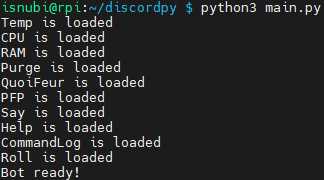
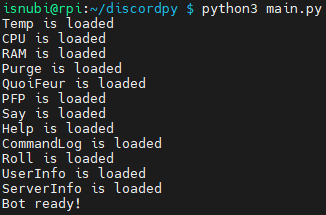
Update README.md file. Add music player with multiple commands. Add these commands on the help menu.

Changed region(s): [[0.0, 0.0, 0.9877, 1.0]]

diff --git a/cogs/PlaySound.py b/cogs/PlaySound.py
@@ -1,0 +1,150 @@
+import asyncio
+import discord
+import youtube_dl
+from discord.ext import commands
+
+
+# Suppress noise about console usage from errors
+youtube_dl.utils.bug_reports_message = lambda: ''
+
+
+ytdl_format_options = {
+    'format': 'bestaudio/best',
+    'outtmpl': '%(extractor)s-%(id)s-%(title)s.%(ext)s',
+    'restrictfilenames': True,
+    'noplaylist': True,
+    'nocheckcertificate': True,
+    'ignoreerrors': False,
+    'logtostderr': False,
+    'quiet': True,
+    'no_warnings': True,
+    'default_search': 'auto',
+    'source_address': '0.0.0.0',
+}
+
+ffmpeg_options = {'options': '-vn', }
+
+ytdl = youtube_dl.YoutubeDL(ytdl_format_options)
+
+
+class YTDLSource(discord.PCMVolumeTransformer):
+    def __init__(self, source, *, data, volume=0.5):
+        super().__init__(source, volume)
+
+        self.data = data
+
+        self.title = data.get('title')
+        self.url = data.get('url')
+
+    @classmethod
+    async def from_url(cls, url, *, loop=None, stream=False):
+        loop = loop or asyncio.get_event_loop()
+        data = await loop.run_in_executor(None, lambda: ytdl.extract_info(url, download=not stream))
+
+        if 'entries' in data:
+            data = data['entries'][0]
+
+        filename = data['url'] if stream else ytdl.prepare_filename(data)
+        return cls(discord.FFmpegPCMAudio(filename, **ffmpeg_options), data=data)
+
+
+class Music(commands.Cog):
+    def __init__(self, bot):
+        self.bot = bot
+
+    @commands.command(name='join')
+    async def join(self, ctx):
+        try:
+            channel = ctx.message.author.voice.channel
+            if channel is None:
+                embed = discord.Embed(title="FeurMusic", description='You are not in a voice channel', color=discord.Colour.blue())
+                embed.set_author(name=ctx.author.name, icon_url=ctx.author.avatar_url)
+            else:
+                embed = discord.Embed(title="FeurMusic", description='Connecting to {0} voice channel'.format(ctx.message.author.voice.channel), color=discord.Colour.blue())
+                embed.set_author(name=ctx.author.name, icon_url=ctx.author.avatar_url)
+                await channel.connect()
+        except discord.ClientException:
+            embed = discord.Embed(title="FeurMusic", description='I\'m already used in another channel', color=discord.Colour.blue())
+            embed.set_author(name=ctx.author.name, icon_url=ctx.author.avatar_url)
+
+        await ctx.message.delete()
+        await ctx.send(embed=embed)
+
+    @commands.command(name='play')
+    async def play(self, ctx, *, url):
+        try:
+            async with ctx.typing():
+                player = await YTDLSource.from_url(url, loop=self.bot.loop, stream=True)
+                ctx.voice_client.play(player, after=lambda e: print(f'Player error: {e}') if e else None)
+
+            embed = discord.Embed(title="FeurMusic", url=url, description="Now playing: {0}".format(player.title), color=discord.Colour.blue())
+            embed.set_author(name=ctx.author.name, icon_url=ctx.author.avatar_url)
+            embed.set_thumbnail(url=player.data['thumbnail'])
+
+            await ctx.message.delete()
+            await ctx.send(embed=embed)
+        except youtube_dl.DownloadError as e:
+            pass
+
+    @commands.command(name='volume')
+    async def volume(self, ctx, volume: int):
+        if ctx.voice_client is None:
+            return await ctx.send("Not connected to a voice channel.")
+
+        ctx.voice_client.source.volume = volume / 100
+        embed = discord.Embed(title="FeurMusic", description='Volume set to {0}%'.format(volume), color=discord.Colour.blue())
+        embed.set_author(name=ctx.author.name, icon_url=ctx.author.avatar_url)
+
+        await ctx.message.delete()
+        await ctx.send(embed=embed)
+
+    @commands.command(name='pause')
+    async def pause(self, ctx):
+        ctx.voice_client.pause()
+        embed = discord.Embed(title="FeurMusic", description='Music paused', color=discord.Colour.blue())
+        embed.set_author(name=ctx.author.name, icon_url=ctx.author.avatar_url)
+
+        await ctx.message.delete()
+        await ctx.send(embed=embed)
+
+    @commands.command(name='resume')
+    async def resume(self, ctx):
+        ctx.voice_client.resume()
+        embed = discord.Embed(title="FeurMusic", description='Music resumed', color=discord.Colour.blue())
+        embed.set_author(name=ctx.author.name, icon_url=ctx.author.avatar_url)
+
+        await ctx.message.delete()
+        await ctx.send(embed=embed)
+
+    @commands.command(name='stop')
+    async def stop(self, ctx):
+        ctx.voice_client.stop()
+        embed = discord.Embed(title="FeurMusic", description='Music stopped', color=discord.Colour.blue())
+        embed.set_author(name=ctx.author.name, icon_url=ctx.author.avatar_url)
+
+        await ctx.message.delete()
+        await ctx.send(embed=embed)
+
+    @commands.command(name='leave')
+    async def leave(self, ctx):
+        await ctx.voice_client.disconnect()
+        embed = discord.Embed(title="FeurMusic", description='Disconnected from voice channel', color=discord.Colour.blue())
+        embed.set_author(name=ctx.author.name, icon_url=ctx.author.avatar_url)
+
+        await ctx.message.delete()
+        await ctx.send(embed=embed)
+
+    @play.before_invoke
+    async def ensure_voice(self, ctx):
+        if ctx.voice_client is None:
+            if ctx.author.voice:
+                await ctx.author.voice.channel.connect()
+            else:
+                await ctx.send("You are not connected to a voice channel.")
+                raise commands.CommandError("Author not connected to a voice channel.")
+        elif ctx.voice_client.is_playing():
+            ctx.voice_client.stop()
+
+
+def setup(bot):
+    bot.add_cog(Music(bot))

diff --git a/cogs/Help.py b/cogs/Help.py
@@ -23,8 +23,17 @@ class Help(commands.Cog):
         embed.add_field(name="**!say** *<something>*", value="Let the bot say something you tell it", inline=True)
         embed.add_field(name="**!pfp** *<@user>*", value="Return the profile picture of mentioned user", inline=True)
         embed.add_field(name="**!roll** *<number>**d**<number>*", value="Roll number of dices with the number of sides you tell it\nYou can\'t roll more than 100 dices\nDices can't have more than 100 sides", inline=False)
-        embed.add_field(name="**!userinfo** *<@user>* - [ui, user]", value="Get user informations", inline=False)
-        embed.add_field(name="**!serverinfo** - [si, server]", value="Get server informations", inline=False)
+        embed.add_field(name="**!userinfo** *<@user>* - [ui, user]", value="Get user information", inline=False)
+        embed.add_field(name="**!serverinfo** - [si, server]", value="Get server information", inline=False)
+
+        # Music command
+        embed.add_field(name="__Music__", value="List of all the music commands available", inline=False)
+        embed.add_field(name="**!join**", value="Join the channel you're in", inline=True)
+        embed.add_field(name="**!play** *<url>*", value="Play a song from youtube", inline=True)
+        embed.add_field(name="**!pause**", value="Pause the current song", inline=True)
+        embed.add_field(name="**!resume**", value="Resume the current song", inline=True)
+        embed.add_field(name="**!stop**", value="Stop the music", inline=True)
+        embed.add_field(name="**!volume** *<number>*", value="Change the volume of the music", inline=True)
 
         # Admin command
         for role in ctx.message.author.roles:

diff --git a/main.py b/main.py
@@ -33,5 +33,6 @@ bot.load_extension("cogs.CommandLog")
 bot.load_extension("cogs.Roll")
 bot.load_extension("cogs.UserInfo")
 bot.load_extension("cogs.ServerInfo")
+bot.load_extension("cogs.PlaySound")
 
 bot.run(token)

diff --git a/README.md b/README.md
@@ -12,6 +12,9 @@ These libraries can be installed using **pip3** command.
 ```bash
 pip3 install discord.py
 pip3 install psutil
+pip3 install asyncio
+pip3 install youtube_dl
+pip3 install discord.py[voice]
 ```
 
 ## Usage
@@ -32,15 +35,38 @@ Once the bot is loaded, anytime a command is called by a user, a line will be pr
 
 There is the list of all the commands available:
 
+General commands :
 * **!help**: display the list of commands
 * **!ping**: display the bot latency
+* **!serverinfo**: display the server information
+* **!userinfo**: display the user information
+
+User commands :
 * **!roll**: roll a dice
 * **!say**: make the bot say something
 * **!pfp**: display the user profile picture
+
+Music commands :
+* **!join**: let the bot join your voice channel
+* **!play** : play a song (from YouTube URL)
+* **!volume** : change the volume of the music
+* **!pause** : pause the music
+* **!resume** : resume the music
+* **!stop** : stop the music
+* **!leave** : let the bot leave your voice channel
+
+Admin commands :
+* **!purge**: delete a number of messages
+
+Hardware statistics commands :
 * **!cpu**: display the CPU usage
 * **!ram**: display the RAM usage
 * **!temp**: display the CPU temperature
-* **!purge**: delete a number of messages
+
+
+
+
+
 
 ## Contributing
 
